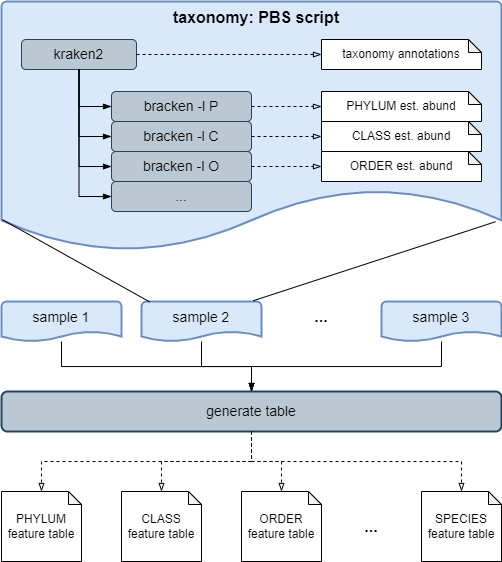
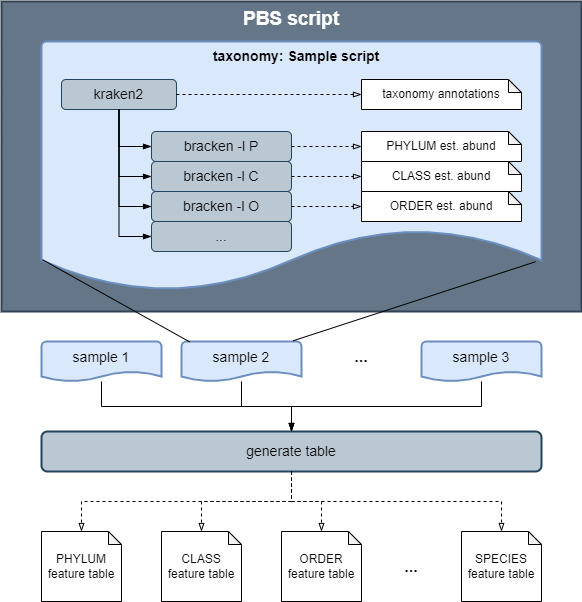
update documentation

diff --git a/docs/README.md b/docs/README.md
@@ -1,101 +1,3 @@
-# Docsy Jekyll Theme
+# Documentation and Tutorials
 
-[![CircleCI](https://circleci.com/gh/vsoch/docsy-jekyll/tree/master.svg?style=svg)](https://circleci.com/gh/vsoch/docsy-jekyll/tree/master)
-<a href="https://jekyll-themes.com/docsy-jekyll/">
-    <img src="https://img.shields.io/badge/featured%20on-JT-red.svg" height="20" alt="Jekyll Themes Shield" >
-</a>
-
-![https://raw.githubusercontent.com/vsoch/docsy-jekyll/master/assets/img/docsy-jekyll.png](https://raw.githubusercontent.com/vsoch/docsy-jekyll/master/assets/img/docsy-jekyll.png)
-
-This is a [starter template](https://vsoch.github.com/docsy-jekyll/) for a Docsy jekyll theme, based
-on the Beautiful [Docsy](https://github.com/google/docsy) that renders with Hugo. This version is intended for
-native deployment on GitHub pages. The original [Apache License](https://github.com/vsoch/docsy-jekyll/blob/master/LICENSE) is included.
-
-## Changes
-
-The site is intended for purely documentation, so while the front page banner
-is useful for business or similar, this author (@vsoch) preferred to have
-the main site page go directly to the Documentation view. Posts
-are still provided via a feed.
-
-## Usage
-
-### 1. Get the code
-
-You can clone the repository right to where you want to host the docs:
-
-```bash
-git clone https://github.com/vsoch/docsy-jekyll.git docs
-cd docs
-```
-
-### 2. Customize
-
-To edit configuration values, customize the [_config.yml](https://github.com/vsoch/docsy-jekyll/blob/master/_config.yml).
-To add pages, write them into the [pages](https://github.com/vsoch/docsy-jekyll/blob/master/pages) folder. 
-You define urls based on the `permalink` attribute in your pages,
-and then add them to the navigation by adding to the content of [_data/toc.myl](https://github.com/vsoch/docsy-jekyll/blob/master/_data/toc.yml).
-The top navigation is controlled by [_data/navigation.yml](https://github.com/vsoch/docsy-jekyll/blob/master/_data/navigation.yml)
-
-### 3. Options
-
-Most of the configuration values in the [_config.yml](https://github.com/vsoch/docsy-jekyll/blob/master/_config.yml) are self explanatory,
-and for more details, see the [getting started page](https://vsoch.github.io/docsy-jekyll/docs/getting-started)
-rendered on the site.
-
-### 4. Serve
-
-Depending on how you installed jekyll:
-
-```bash
-jekyll serve
-# or
-bundle exec jekyll serve
-```
-
-**NOTE:** If the above serve command throws an error saying `require': cannot load such file -- webrick (LoadError)` try to run `bundle add webrick` to automatically add the webrick gem to your Gemfile, or manually add `gem "webrick"` line to the Gemfile and then run the serve command again.
-
-
-### 5. Run as a container in dev or prod
-
-#### Software Dependencies
-
-If you want to run docsy jekyll via a container for development (dev) or production (prod) you can use containers. This approach requires installing [docker-ce](https://docs.docker.com/engine/install/ubuntu/) and [docker-compose](https://docs.docker.com/compose/install/). 
-
-#### Customization
-
-Note that the [docker-compose.yml](docker-compose.yml) file is using the [jekyll/jekyll:3.8](https://hub.docker.com/r/jekyll/jekyll/tags) image. If you want to make your build more reproducible, you can specify a particular version for jekyll (tag). Note that at the development time of writing this documentation, the latest was tag 4.0.0,
-and it [had a bug](https://github.com/fastai/fastpages/issues/267#issuecomment-620612896) that prevented the server from deploying.
-
-If you are deploying a container to production, you should remove the line to
-mount the bundles directory to the host in the docker-compose.yml. Change:
-
-```yaml
-    volumes: 
-      - "./:/srv/jekyll"
-      - "./vendor/bundle:/usr/local/bundle"
-      # remove "./vendor/bundle:/usr/local/bundle" volume when deploying in production
-```
-
-to:
-
-```yaml
-    volumes: 
-      - "./:/srv/jekyll"
-```
-
-This additional volume is optimal for development so you can cache the bundle dependencies,
-but should be removed for production. 
-
-#### Start Container
-
-Once your docker-compose to download the base container and bring up the server:
-
-```bash
-docker-compose up -d
-```
-
-You can then open your browser to [http://localhost:4000](http://localhost:4000)
-to see the server running.
-
-> Node : changes `baseurl: ""` in _config.yml  when you are running in local and prod according to the requirement.
+This directory hosts the documentation and tutorials files based on the vsoch/Docsy Jekyll Theme

diff --git a/docs/_docs/usage/taxonomy_profiling.md b/docs/_docs/usage/taxonomy_profiling.md
@@ -8,11 +8,7 @@ This module currently creates one PBS script for each sample (with the *_clean1.
 
 Currently supported taxonomy annotation approaches (select one or more): 
 
-1. Metaphlan2 (https://bitbucket.org/biobakery/metaphlan2/src/default/)
-1. Metaphlan3 ()
-1. KrakenUniq (https://github.com/fbreitwieser/krakenuniq)
-1. IGGsearch (https://github.com/snayfach/IGGsearch)
-1. Samtools/1.9
+1. Kraken2 (https://ccb.jhu.edu/software/kraken2/) - abundance estimation with Bracken
 
 
 ***
@@ -62,9 +58,10 @@ output_dir
 usage: taxa_module.py -i INPUT_DIR -o OUTPUT_DIR -e EMAIL
                       [--taxon-profiler {kraken2,metaphlan3,metaphlan2,krakenUniq,IGG}]
                       [--fwd-suffix FWD_SUFFIX] [--rev-suffix REV_SUFFIX]
-                      --reference-path REFERENCE_PATH [--mode MODE]
-                      [-w WALLTIME] [-M MEM] [-t THREADS] [-h] [-f FILE_TYPE]
-                      [--verbose] [--debug]
+                      --reference-path REFERENCE_PATH [--read-length READ_LENGTH]
+                      [--threshold THRESHOLD] [--mode MODE]
+                      [-w WALLTIME] [-M MEM] [-t THREADS] [-h]
+                      [-f FILE_TYPE] [--verbose] [--debug]
 
 Taxonomy profiling module part of the MRC Metagenomics pipeline
 
@@ -79,9 +76,14 @@ Taxonomy profiling module part of the MRC Metagenomics pipeline
   --reference-path REFERENCE_PATH
                         specify the path to the reference required for the
                         selected taxonomic profiler
+  --read-length READ_LENGTH
+                        read length for Bracken estimation of abundances
+  --threshold THRESHOLD
+                        threshold [default=1000] for Bracken estimation of 
+                        abundances, species with reads below threshold are removed
 
 [2] Taxonomy profile settings:
-  --taxon-profiler {kraken2,metaphlan3,metaphlan2,krakenUniq,IGG}
+  --taxon-profiler {kraken2}
                         select which taxonomy profiler to use, default
                         [default=kraken2]
   --fwd-suffix FWD_SUFFIX

diff --git a/docs/_docs/tutorials/tutorial-no-singularity.md b/docs/_docs/tutorials/tutorial-no-singularity.md
@@ -489,6 +489,7 @@ $ python3 func_profiling.py -i /<PROJECT_PATH>/output/QC_module/CleanReads \
 --function-profiler humann3 \
 --nucleotide-database <PATH/to/humann/chocophlan> \
 --protein-database <PATH/to/humann/uniref> \
+--metaphlan-database <PATH/to/metaphlan_databases> \
 --walltime 12 --mem 32 --threads 28
 ```
 
@@ -502,6 +503,7 @@ $ python3 func_profiling.py -i /<PROJECT_PATH>/output/QC_module/CleanReads \
 | `--function-profiler <profiler>` | is an optional setting (default=humann3), as there are other profiler options available |
 | `--nucleotide-database <path>` | directory containing the nucleotide database, DEFAULT: /refdb/humann/chocophlan |
 | `--protein-database <path>` | directory containing the protein database, DEFAULT: /refdb/humann/uniref |
+| `--metaphlan-database <path>` | directory containing the metaphlan database, DEFAULT: /refdb/humann/metaphlan_databases |
 
 **PBS parameters**
 

diff --git a/docs/_docs/usage/function_profiling.md b/docs/_docs/usage/function_profiling.md
@@ -99,6 +99,9 @@ Function profiling module part of the MRC Metagenomics pipeline
   --protein-database PROTEIN_DATABASE
                         HUMAnN3 directory containing the protein database
                         [default=/refdb/humann/data/uniref]
+  --metaphlan-database METAPHLAN_DATABASE
+                        Metaphlan3 reference database (CHOCOPhlAn) 
+                        [default=/refdb/humann/metaphlan_databases]
 
 [3] PBS settings:
   --mode MODE           Mode to generate PBS scripts, currently supports
